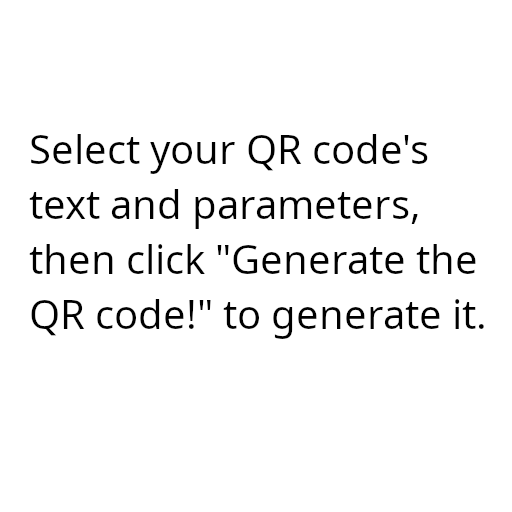
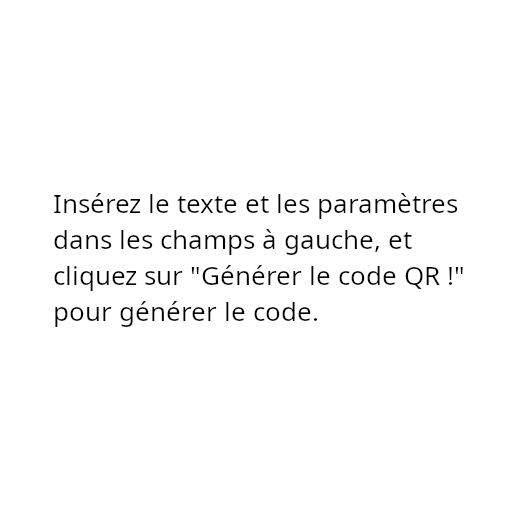
Removed Google translate and manually translated the page to french

Changed region(s): [[0.0625, 0.375, 0.9375, 0.6875], [0.0625, 0.25, 0.8438, 0.3438]]

diff --git a/index.html b/index.html
@@ -1,5 +1,5 @@
 <!DOCTYPE html>
-<html lang="en">
+<html lang="fr">
 <head>
     <meta charset="UTF-8">
     <meta name="viewport" content="width=device-width, initial-scale=1.0">
@@ -22,48 +22,48 @@
         <div id="toastNoText" class="toast text-bg-danger" role="danger" aria-live="assertive" aria-atomic="true">
             <div class="toast-header">
                 <img src="..." class="rounded me-2" alt="...">
-                <strong class="me-auto">Text not set!</strong>
-                <small>Warning</small>
+                <strong class="me-auto">Texte non mis</strong>
+                <small>Avertissement</small>
                 <button type="button" class="btn-close" data-bs-dismiss="toast" aria-label="Close"></button>
             </div>
             <div class="toast-body">
-                You need to set the QR code's text before you can generate it !
+                Vous devez mettre du texte pour le code QR avant de le générer !
             </div>
         </div>
 
         <div id="toastBadImageLink" class="toast text-bg-danger" role="danger" aria-live="assertive" aria-atomic="true">
             <div class="toast-header">
                 <img src="..." class="rounded me-2" alt="...">
-                <strong class="me-auto">Invalid image link!</strong>
-                <small>Warning</small>
+                <strong class="me-auto">Lien d'image invalide</strong>
+                <small>Avertissement</small>
                 <button type="button" class="btn-close" data-bs-dismiss="toast" aria-label="Close"></button>
             </div>
             <div class="toast-body">
-                You need to set a valid image link to put in the center of the QR code! <small>(make sure it can open an image in your browser)</small>
+                Vous devez mettre un lien d'image valide ! <small>(faites en sorte qu'il peut s'ouvrir dans le navigateur)</small>
             </div>
         </div>
 
         <div id="toastDownloadFail" class="toast text-bg-danger" role="danger" aria-live="assertive" aria-atomic="true">
             <div class="toast-header">
                 <img src="..." class="rounded me-2" alt="...">
-                <strong class="me-auto">Failed to download image!</strong>
-                <small>Warning</small>
+                <strong class="me-auto">Téléchargement raté !</strong>
+                <small>Avertissement</small>
                 <button type="button" class="btn-close" data-bs-dismiss="toast" aria-label="Close"></button>
             </div>
             <div class="toast-body">
-                The image download failed. Make sure it's already generated beforehand, and can properly display.
+                Le téléchargement à raté. Faites en sorte que vous avez génére le code QR avant de cliquer sur le bouton de téléchargement.
             </div>
         </div>
 
         <div id="toastGenerated" class="toast text-bg-success" role="success" aria-live="assertive" aria-atomic="true">
             <div class="toast-header">
                 <img src="..." class="rounded me-2" alt="...">
-                <strong class="me-auto">Generated!</strong>
+                <strong class="me-auto">Généré !</strong>
                 <small>Information</small>
                 <button type="button" class="btn-close" data-bs-dismiss="toast" aria-label="Close"></button>
             </div>
             <div class="toast-body">
-                QR code has been generated!
+                Le code QR a bien été généré.
             </div>
         </div>
     </div>
@@ -78,14 +78,17 @@
                             class="d-inline-block align-text-top">
                         Yet Another QR code Generator Website
                     </a>
-                    <form class="d-flex" action="https://github.com/ari-none/YAQRGW">
+                    <div class="d-flex">
                         <span class="navbar-text small">
-                            Made by an intern at SENDIX
+                            Fait par un stagiaire chez SENDIX
                         </span>
-                        <button class="btn btn-outline-light ms-3" type="submit">
-                            Github repository
-                        </button>
-                    </form>
+                        <a href="https://sendix.fr/" class="btn btn-outline-light ms-3">
+                            SENDIX.FR
+                        </a>
+                        <a href="https://github.com/ari-none/YAQRGW" class="btn btn-outline-light ms-3">
+                            Github
+                        </a>
+                    </div>
                 </div>
             </nav>
         </div>
@@ -99,7 +102,7 @@
                         <h2 class="accordion-header">
                             <button class="accordion-button" type="button" data-bs-toggle="collapse" data-bs-target="#collapseOne"
                                 aria-expanded="true" aria-controls="collapseOne">
-                                [1] — QR code content
+                                [1] — Contenu du code QR
                             </button>
                         </h2>
                         <div id="collapseOne" class="accordion-collapse collapse show" data-bs-parent="#parametersList">
@@ -107,18 +110,18 @@
                             <div class="accordion-body">
 
                                 <div class="form-control">
-                                    <label class="form-label" for="qrTextContent">Fill in the link or text you'd like the QR code to have. (full link
-                                        required)</label>
-                                    <input class="form-control" type="text" placeholder="Type here…" id="qrTextContent">
+                                    <label class="form-label" for="qrTextContent">Insérez le texte ou le lien du QR code <small>(si vous voulez mettre un lien, 
+                                        vous devez mettre le lien en entier !)</small></label>
+                                    <input class="form-control" type="text" placeholder="Lien ou texte du code QR…" id="qrTextContent">
                                     <br>
                                     
                                     <div class="text-start">
-                                        <p><b class="small">Here's an example list of URIs (link prefixes) you can use:</b></p>
+                                        <p><b class="small">Voici une liste d'URI (préfixe pour les liens) que vous pouvez utiliser :</b></p>
                                         <br>
-                                        <p class="small">http/https: (for links)</p>
-                                        <p class="small">tel: (for phone numbers)</p>
-                                        <p class="small">mailto: (for email addresses)</p>
-                                        <p class="small">ftp: (for ftp servers)</p>
+                                        <p class="small"><b>http://</b> et <b>https://</b> (pour les liens)</p>
+                                        <p class="small"><b>tel:</b> (pour les numéros de téléphone, commencez le numéro avec <b>+33</b> pour les numéros français)</p>
+                                        <p class="small"><b>mailto:</b> (pour les addresses e-mail)</p>
+                                        <p class="small"><b>ftp:</b> (pour les serveurs FTP)</p>
                                     </div>
                                 </div>
 
@@ -126,7 +129,7 @@
 
                                 <div class="form-control">
                                     <label class="form-label" for="qrFileFormat">
-                                        Image file format
+                                        Format de l'image
                                     </label>
                                     
                                     <br>
@@ -149,7 +152,7 @@
 
                                 <div class="form-control">
                                     <label for="qrSize" class="form-label">
-                                        Image size
+                                        Taille de l'image en pixels
                                     </label>
 
                                     <br>
@@ -193,7 +196,7 @@
                         <h2 class="accordion-header">
                             <button class="accordion-button collapsed" type="button" data-bs-toggle="collapse"
                                 data-bs-target="#collapseTwo" aria-expanded="false" aria-controls="collapseTwo">
-                                [2] — Customization
+                                [2] — Customiser l'image
                             </button>
                         </h2>
                         <div id="collapseTwo" class="accordion-collapse collapse" data-bs-parent="#parametersList">
@@ -202,23 +205,25 @@
 
                                 <div class="form-control">
                                     <div class="row">
-                                        <label for="qrColorPrimary" class="form-label col-8">Primary color</label>
+                                        <label for="qrColorPrimary" class="form-label col-8">Couleur des cases</label>
                                         <input type="color" class="form-control form-control-color col-4" id="qrColorPrimary" value="#000000">
                                     </div>
                                     
                                     <div class="row">
-                                        <label for="qrColorSecondary" class="form-label col-8">Secondary color</label>
+                                        <label for="qrColorSecondary" class="form-label col-8">Couleur arrière plan</label>
                                         <input type="color" class="form-control form-control-color col-4" id="qrColorSecondary" value="#ffffff">
                                     </div>
 
                                     <div class="row">
-                                        <label for="qrColorFinder" class="form-label col-8">Finder color</label>
+                                        <label for="qrColorFinder" class="form-label col-8">Couleur du finder</label>
                                         <input type="color" class="form-control form-control-color col-4" id="qrColorFinder" value="#000000">
                                     </div>
 
                                     <div class="form-check form-switch">
                                         <input class="form-check-input" type="checkbox" role="switch" id="qrColorFinderUsesPrimary">
-                                        <label class="form-check-label" for="qrColorFinderUsesPrimary">Use standalone finder color</label>
+                                        <label class="form-check-label" for="qrColorFinderUsesPrimary">
+                                            Couleur à part pour les finders
+                                        </label>
                                     </div>
                                 </div>
 
@@ -226,7 +231,7 @@
 
                                 <div class="form-control">
                                     <label for="qrDotShape" class="form-label">
-                                        Dot (cell) shape
+                                        Forme des cellules (petits carrés)
                                     </label>
 
                                     <br>
@@ -234,19 +239,19 @@
                                     <div class="form-check">
                                         <input type="radio" value="square" name="qrDotShape" id="qrDotShapeSquare" class="form-check-input" checked>
                                         <label for="qrDotShapeSquare" class="form-check-label">
-                                            Square <small>(default)</small>
+                                            Carrés <small>(défaut)</small>
                                         </label>
                                     </div>
                                     <div class="form-check">
                                         <input type="radio" value="dot" name="qrDotShape" id="qrDotShapeDotted" class="form-check-input">
                                         <label for="qrDotShapeDotted" class="form-check-label">
-                                            Dotted / Circle
+                                            Points / Cercles
                                         </label>
                                     </div>
                                     <div class="form-check">
                                         <input type="radio" value="rounded" name="qrDotShape" id="qrDotShapeRounded" class="form-check-input">
                                         <label for="qrDotShapeRounded" class="form-check-label">
-                                            Rounded
+                                            Arrondi
                                         </label>
                                     </div>
                                 </div>
@@ -255,7 +260,7 @@
 
                                 <div class="form-control">
                                     <label for="qrFinderShape" class="form-label">
-                                        Finder shape
+                                        Forme des finders
                                     </label>
 
                                     <br>
@@ -263,19 +268,19 @@
                                     <div class="form-check">
                                         <input type="radio" value="square" name="qrFinderShape" id="qrFinderShapeSquare" class="form-check-input" checked>
                                         <label for="qrFinderShapeSquare" class="form-check-label">
-                                            Square <small>(default)</small>
+                                            Carrés <small>(défaut)</small>
                                         </label>
                                     </div>
                                     <div class="form-check">
                                         <input type="radio" value="dot" name="qrFinderShape" id="qrFinderShapeDotted" class="form-check-input">
                                         <label for="qrFinderShapeDotted" class="form-check-label">
-                                            Dotted / Circle
+                                            Points / Cercles
                                         </label>
                                     </div>
                                     <div class="form-check">
                                         <input type="radio" value="rounded" name="qrFinderShape" id="qrFinderShapeRounded" class="form-check-input">
                                         <label for="qrFinderShapeRounded" class="form-check-label">
-                                            Rounded
+                                            Arrondi
                                         </label>
                                     </div>
                                 </div>
@@ -287,7 +292,7 @@
                         <h2 class="accordion-header">
                             <button class="accordion-button collapsed" type="button" data-bs-toggle="collapse"
                                 data-bs-target="#collapseThree" aria-expanded="false" aria-controls="collapseThree">
-                                [3] — Embedded center image
+                                [3] — Image au centre (WIP)
                             </button>
                         </h2>
                         <div id="collapseThree" class="accordion-collapse collapse" data-bs-parent="#parametersList">
@@ -296,21 +301,21 @@
 
                                 <div class="form-control bg-danger">
                                     <p class="text-center text-light">
-                                        WARNING: This feature is very buggy, and you should only use it at your own risk. If the QR code doesn't generate after putting an embedded image, it's the reason why it doesn't work sometimes.
+                                        ATTENTION : Cette fonctionalitée présente des bugs. Si vous avez besoin d'avoir une image centrée, veuillez utiliser un outil de retouche photo si possible.
                                     </p>
                                 </div>
 
                                 <hr>
 
                                 <div class="form-control">
-                                    <label class="form-label" for="qrEmbedImage">Embedded image link (leave empty for no images)</label>
-                                    <input class="form-control" type="text" placeholder="Type here…" id="qrEmbedImage">
+                                    <label class="form-label" for="qrEmbedImage">Lien de l'image centrée (veuillez laisser vide pour avoir aucune image)</label>
+                                    <input class="form-control" type="text" placeholder="Lien…" id="qrEmbedImage">
                                 </div>
 
                                 <hr>
 
                                 <div class="form-control">
-                                    <label for="qrEmbedImageSizeRatio" class="form-label">Embedded image scale ratio</label>
+                                    <label for="qrEmbedImageSizeRatio" class="form-label">Taille de l'image centrée en %</label>
                                     <input type="range" class="form-range" min="0" max="100" step="1" value="30" id="qrEmbedImageSizeRatio">
                                     <output for="qrEmbedImageSizeRatio" id="qrEmbedImageSizeRatioOutput" aria-hidden="true"></output>
                                 </div>
@@ -325,11 +330,11 @@
             <div class="col-12 col-lg-6">
                 <div class="m-3">
                     
-                    <h1>Output</h1>
+                    <h1>Sortie</h1>
 
                     <div class="btn-group">
-                        <input type="button" class="btn btn-info" value="Generate the QR code!" id="qrGenerateButton">
-                        <input type="button" class="btn btn-info" value="Download the generated image" id="qrDownloadButton">
+                        <input type="button" class="btn btn-info" value="Générer le code QR !" id="qrGenerateButton">
+                        <input type="button" class="btn btn-info" value="Télécharger l'image générée." id="qrDownloadButton">
                     </div>
 
                     <div class="d-flex justify-content-center mt-3 mb-3">
@@ -342,7 +347,7 @@
             <!-- QR code history -->
             <div class="col bg-info-subtle d-flex justify-content-center">
                 <div class="mt-3 mb-3 w-75 form-control">
-                    <h3>QR code history</h3>
+                    <h3>Historique des images générés</h3>
 
                     <hr>
                     
@@ -355,11 +360,4 @@
     </div>
 </body>
 <script src="./scripts/main.js"></script> <!-- Main script -->
-
-<script type="text/javascript">
-    function googleTranslateElementInit() {
-        new google.translate.TranslateElement({pageLanguage: 'en', layout: google.translate.TranslateElement.InlineLayout.SIMPLE}, 'google_translate_element');
-    }
-</script> <!-- Automatic page translation -->
-<script type="text/javascript" src="//translate.google.com/translate_a/element.js?cb=googleTranslateElementInit"></script>
 </html>
